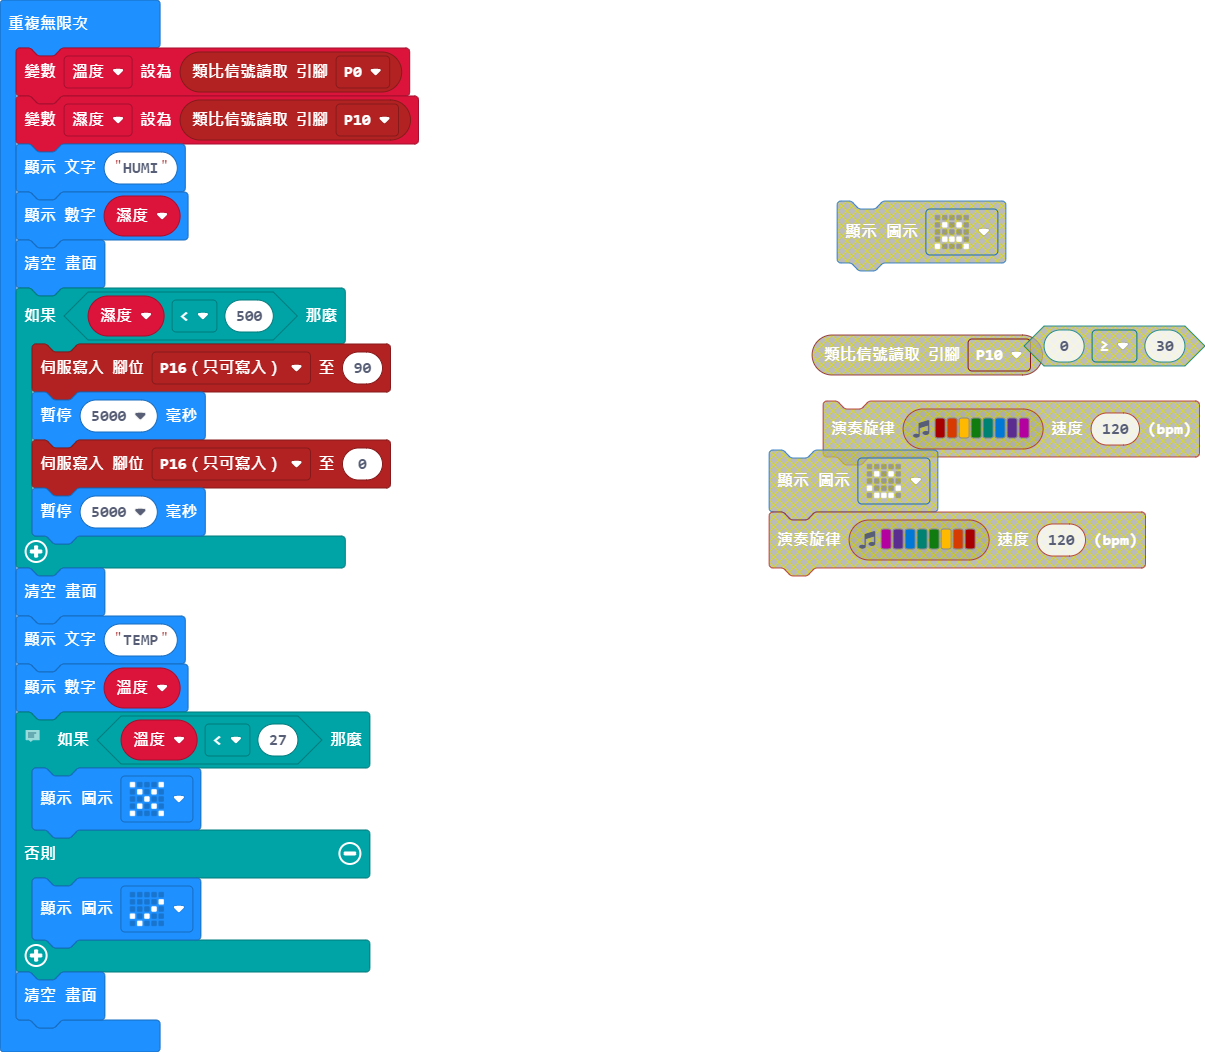
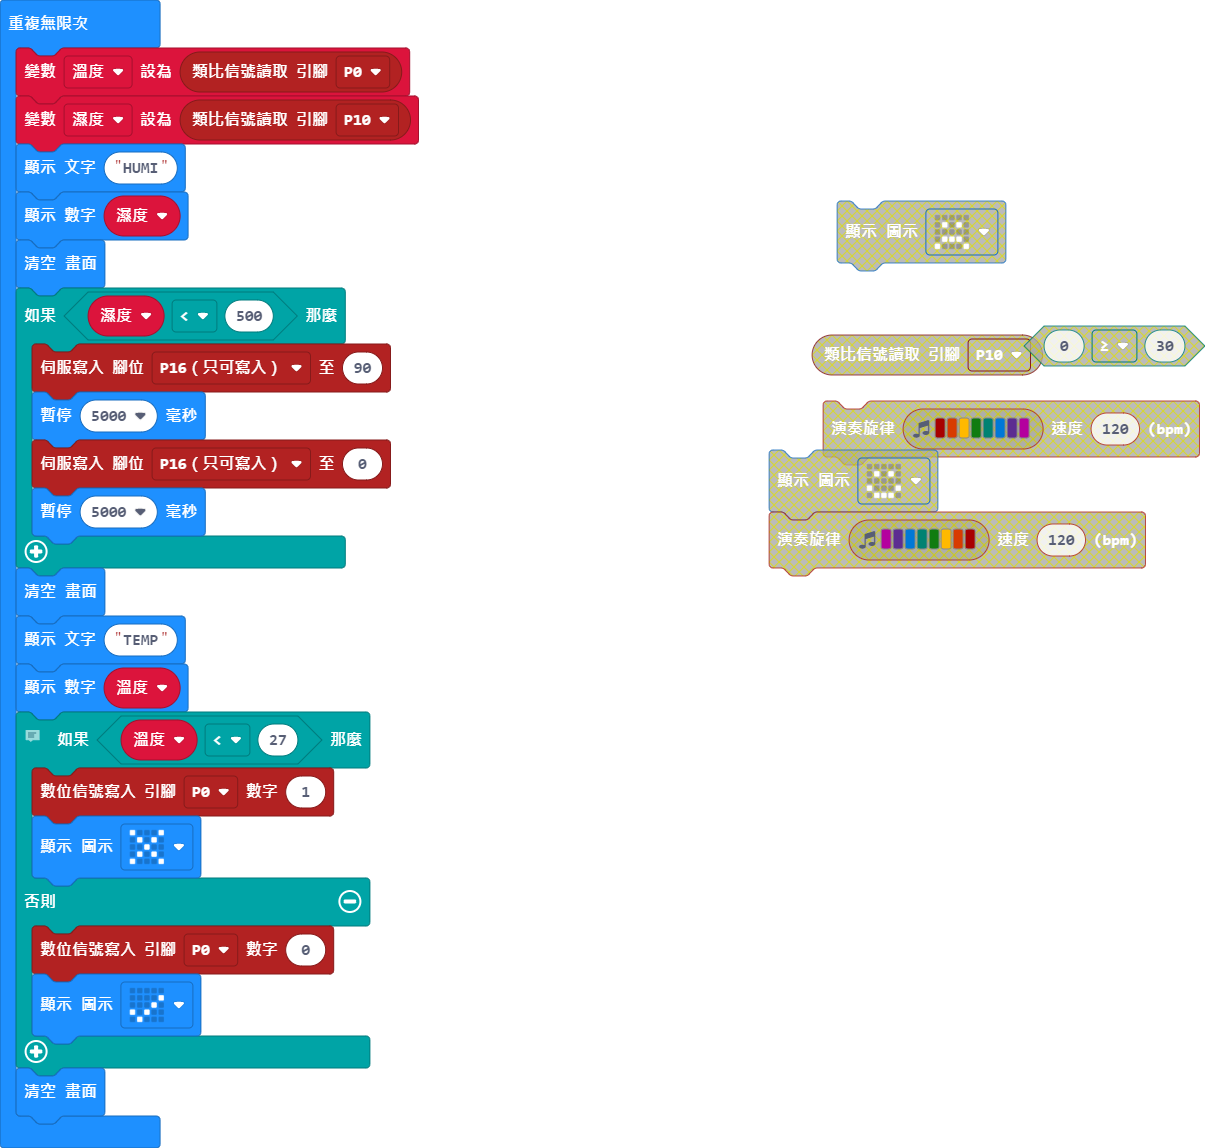
更新 main.blocks, main.ts

Changed region(s): [[0.0, 0.0, 0.3685, 0.9734], [0.6141, 0.1521, 1.0, 0.5475]]

diff --git a/main.ts b/main.ts
@@ -17,8 +17,10 @@ basic.forever(function () {
     basic.showNumber(溫度)
     // 預計會開燈，增加溫度
     if (溫度 < 27) {
+        pins.digitalWritePin(DigitalPin.P0, 1)
         basic.showIcon(IconNames.No)
     } else {
+        pins.digitalWritePin(DigitalPin.P0, 0)
         basic.showIcon(IconNames.Yes)
     }
     basic.clearScreen()
